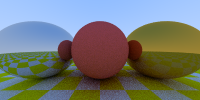
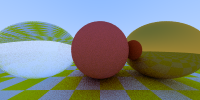
dielectrics added

diff --git a/source/Dielectric.cpp b/source/Dielectric.cpp
@@ -1,0 +1,64 @@
+
+#include "Dielectric.h"
+
+using namespace rtow::render;
+
+Dielectric::Dielectric (
+    float p_ri
+) {
+    m_refIdx = p_ri;
+}
+
+bool 
+Dielectric::scatter (
+    Ray p_rayIn, 
+    Intersection p_record, 
+    Vector3 &p_attenuation,
+    Ray &p_scattered
+) {
+    p_attenuation = Vector3(1,1,1);
+
+    Vector3 reflected = reflect(p_rayIn.direction(), p_record.normal);
+    Vector3 refracted;
+    
+    Vector3 outwardNormal;
+
+    float refractiveIndex;
+    float reflectedProb;
+    float cosine;
+    
+    if (dot(p_rayIn.direction(), p_record.normal) > 0) {
+        outwardNormal = -1.0f * p_record.normal;
+        refractiveIndex = m_refIdx;
+        cosine = m_refIdx * dot(p_rayIn.direction(), p_record.normal) / length(p_rayIn.direction()); 
+    } else {
+        outwardNormal = p_record.normal;
+        refractiveIndex = 1.0f / m_refIdx;
+        cosine = -dot(p_rayIn.direction(), p_record.normal) / length(p_rayIn.direction());
+    }
+    
+    if (refract(p_rayIn.direction(), outwardNormal, refractiveIndex, refracted)) {
+        reflectedProb = schlick(cosine, m_refIdx);
+    } else {
+        reflectedProb = 1.0f;
+    }
+    
+    if (rand() / float(RAND_MAX) < reflectedProb) {
+        p_scattered = Ray(p_record.point, reflected);
+    } else {
+        p_scattered = Ray(p_record.point, refracted);
+    }
+    
+    return true;
+}
+
+float
+Dielectric::schlick (
+    float p_cosine,
+    float p_refIdx
+) {
+    float r0 = (1-p_refIdx) / (1 + p_refIdx);
+    r0 = pow(r0,2);
+    
+    return r0 + (1-r0) * pow((1-p_cosine), 5);
+}

diff --git a/source/main.cpp b/source/main.cpp
@@ -3,24 +3,29 @@
 #include <memory>
 #include <cstdlib>
 
-#include "Camera.h"
+// Math
 #include "Vector3.h"
 #include "Ray.h"
-#include "Image.h"
 
-#include "Sphere.h"
-#include "IntersectableList.h"
+// Render
+#include "Camera.h"
+#include "Image.h"
 
 #include "Material.h"
 #include "Lambertian.h"
 #include "Metal.h"
+#include "Dielectric.h"
 
 #include "Texture.h"
 #include "ConstantTexture.h"
 #include "CheckerTexture.h"
 
-using namespace rtow::render;
+// Scene
+#include "Sphere.h"
+#include "IntersectableList.h"
+
 using namespace rtow::math;
+using namespace rtow::render;
 using namespace rtow::scene;
 
 Vector3
@@ -36,7 +41,6 @@ getColor (
         Ray scatterRay;
         Vector3 attenuation;
 
-        // segfaults without if???
         bool scatterRayHit = intersectionRecord.material->scatter(
             p_r, 
             intersectionRecord,
@@ -74,10 +78,7 @@ int main() {
                 new ConstantTexture(Vector3(0.8, 0.6, 0.2))
             )
         ),
-        new Sphere(Vector3(-1, 0, -1), 0.5f, new Metal(
-                new ConstantTexture(Vector3(0.8, 0.8, 0.8))
-            )
-        ),
+        new Sphere(Vector3(-1, 0, -1), 0.5f, new Dielectric(1.5)),
         
     });
 

diff --git a/source/Vector3.cpp b/source/Vector3.cpp
@@ -138,6 +138,34 @@ rtow::math::operator* (
     );
 }
 
+Vector3
+rtow::math::reflect (
+    Vector3 p_vec1,
+    Vector3 p_vec2
+) {
+    return p_vec1 - 2 * dot(p_vec1, p_vec2) * p_vec2;
+}
+
+bool
+rtow::math::refract (
+    Vector3 p_vecIn,
+    Vector3 p_normal,
+    float p_refractiveRatio,
+    Vector3 &p_refractOut
+) {
+    Vector3 uv = unitVector(p_vecIn);
+    
+    float dt = dot(uv, p_normal);
+    float discriminant = 1.0f - pow(p_refractiveRatio,2) * (1 - pow(dt,2));
+    
+    if (discriminant > 0) {
+        p_refractOut = p_refractiveRatio * (uv - p_normal * dt) - p_normal * sqrt(discriminant);
+        return true;
+    }
+    
+    return false;
+}
+
 float
 rtow::math::length (
     Vector3 p_vec

diff --git a/include/Dielectric.h b/include/Dielectric.h
@@ -1,0 +1,19 @@
+
+#pragma once
+
+#include "Material.h"
+
+namespace rtow {
+    namespace render {
+        class Dielectric : public Material {
+            public:
+                Dielectric (float ri);
+                virtual bool scatter (Ray r_in, Intersection record, Vector3 &attenuation, Ray &scattered);
+            
+            private:
+                float m_refIdx;
+                
+                float schlick (float p_cosine, float refIdx);
+        };
+    };
+};

diff --git a/include/Vector3.h b/include/Vector3.h
@@ -35,6 +35,10 @@ namespace rtow {
         Vector3 operator*(Vector3 lhs, float rhs);
         Vector3 operator*(float lhs, Vector3 rhs);
 
+
+        Vector3 reflect (Vector3 v1, Vector3 v2);
+        bool refract (Vector3 v, Vector3 n, float ni_over_nt, Vector3 &refracted);
+        
         float length(Vector3 v);
         float squaredLength(Vector3 v);
 

diff --git a/source/Metal.cpp b/source/Metal.cpp
@@ -27,11 +27,3 @@ Metal::scatter (
     
     return (dot(p_scatterOut.direction(), p_record.normal) > 0);
 }
-
-Vector3
-Metal::reflect (
-    Vector3 p_vec1,
-    Vector3 p_vec2
-) {
-    return p_vec1 - 2 * dot(p_vec1, p_vec2) * p_vec2;
-}

diff --git a/include/Metal.h b/include/Metal.h
@@ -15,8 +15,6 @@ namespace rtow {
 
             private:
                 Texture *m_albedo;
-
-                Vector3 reflect (Vector3 v1, Vector3 v2);
         };
     };
 };
